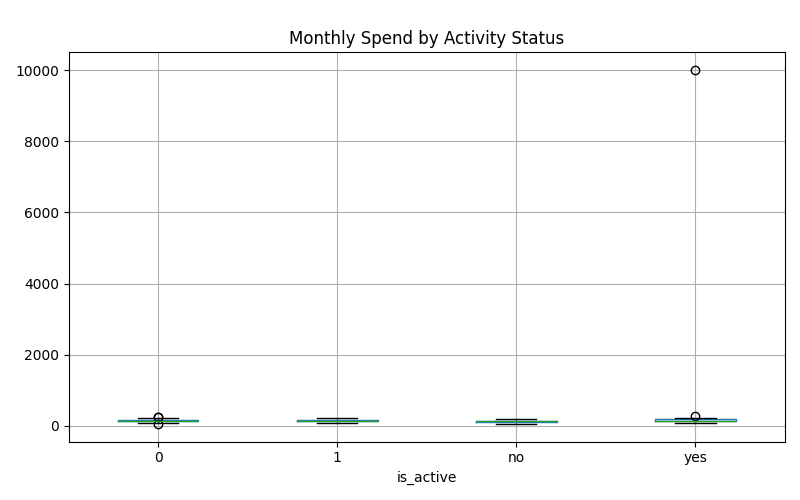
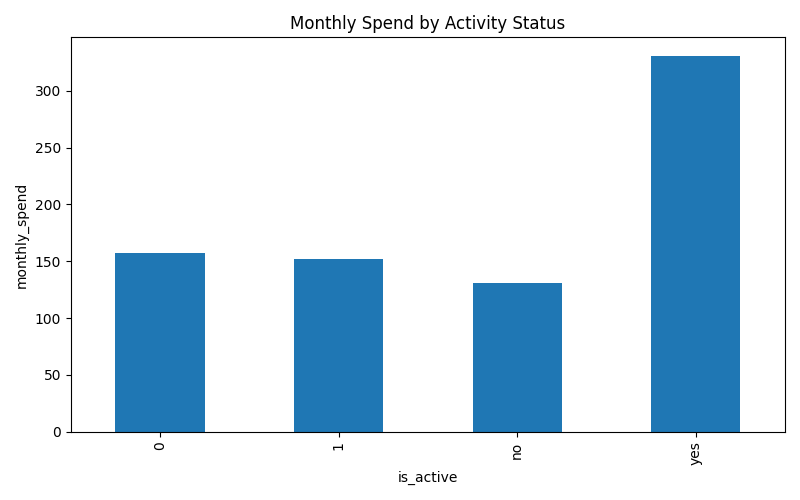
Fix Visualization Agent: always generate a chart per hypothesis regardless of significance

diff --git a/pipeline.py b/pipeline.py
@@ -11,7 +11,24 @@ from feature_engineering_agent import analyze_for_feature_engineering, propose_f
 from report_agent import generate_report
 
 
+def update_progress(dataset_id: str, step: str):
+    """
+    Updates the database with which agent is currently running,
+    so the frontend can display live progress.
+    """
+    from database import SessionLocal, Dataset
+    db = SessionLocal()
+    try:
+        dataset = db.query(Dataset).filter(Dataset.dataset_id == dataset_id).first()
+        if dataset:
+            dataset.current_step = step
+            db.commit()
+    finally:
+        db.close()
+
+
 class PipelineState(TypedDict):
+    dataset_id: str
     filepath: str
     df: Optional[pd.DataFrame]
     profiling_findings: Optional[dict]
@@ -25,6 +42,7 @@ class PipelineState(TypedDict):
 
 
 def profiling_node(state: PipelineState) -> dict:
+    update_progress(state["dataset_id"], "profiling")
     print("Running Profiling Agent...")
     df = pd.read_csv(state["filepath"])
     findings = analyze_dataset(state["filepath"])
@@ -32,12 +50,10 @@ def profiling_node(state: PipelineState) -> dict:
 
 
 def cleaning_node(state: PipelineState) -> dict:
+    update_progress(state["dataset_id"], "cleaning")
     print("Running Cleaning Agent...")
     actions = propose_cleaning_actions(state["profiling_findings"])
 
-    # PLACEHOLDER: auto-approve every proposed action for now.
-    # Once the frontend exists (Phase 5), this is where we pause and wait
-    # for real human approval/rejection of each action instead.
     df = state["df"]
     for action in actions:
         try:
@@ -49,18 +65,21 @@ def cleaning_node(state: PipelineState) -> dict:
 
 
 def hypothesis_node(state: PipelineState) -> dict:
+    update_progress(state["dataset_id"], "hypothesis")
     print("Running Hypothesis Agent...")
     hypotheses = generate_hypotheses(state["df"])
     return {"hypotheses": hypotheses}
 
 
 def statistical_testing_node(state: PipelineState) -> dict:
+    update_progress(state["dataset_id"], "statistical_testing")
     print("Running Statistical Testing Agent...")
     results = [run_statistical_test(state["df"], h) for h in state["hypotheses"]]
     return {"test_results": results}
 
 
 def visualization_node(state: PipelineState) -> dict:
+    update_progress(state["dataset_id"], "visualization")
     print("Running Visualization Agent...")
     df = state["df"]
     specs = decide_chart_types(state["test_results"], list(df.columns))
@@ -75,16 +94,15 @@ def visualization_node(state: PipelineState) -> dict:
 
 
 def feature_engineering_node(state: PipelineState) -> dict:
+    update_progress(state["dataset_id"], "feature_engineering")
     print("Running Feature Engineering Agent...")
     analysis = analyze_for_feature_engineering(state["df"])
     actions = propose_feature_engineering_actions(analysis)
-
-    # Same placeholder note as cleaning_node — auto-approved for now,
-    # will become a real human approval step once the frontend exists.
     return {"fe_actions": actions}
 
 
 def report_node(state: PipelineState) -> dict:
+    update_progress(state["dataset_id"], "report")
     print("Running Report Agent...")
     report = generate_report(
         state["profiling_findings"],
@@ -125,7 +143,7 @@ if __name__ == "__main__":
     pipeline = build_pipeline()
 
     print("Starting full pipeline run...\n")
-    final_state = pipeline.invoke({"filepath": "data/sample_messy_customers.csv"})
+    final_state = pipeline.invoke({"dataset_id": "test-run", "filepath": "data/sample_messy_customers.csv"})
 
     print("\n" + "=" * 60)
     print("PIPELINE COMPLETE")

diff --git a/database.py b/database.py
@@ -17,11 +17,12 @@ class Dataset(Base):
 
     dataset_id = Column(String, primary_key=True)
     filename = Column(String)
-    status = Column(String, default="uploaded")  # uploaded -> processing -> complete/failed
-    results_json = Column(Text, nullable=True)  # stores the pipeline results as JSON text
+    status = Column(String, default="uploaded")
+    current_step = Column(String, nullable=True)
+    results_json = Column(Text, nullable=True)
     created_at = Column(DateTime, default=lambda: datetime.now(timezone.utc))
     error_message = Column(Text, nullable=True)
-    owner_id = Column(String, nullable=True)  # links to User.id; nullable for now, for backward compatibility
+    owner_id = Column(String, nullable=True)
 
 
 class User(Base):
@@ -36,15 +37,10 @@ class User(Base):
     created_at = Column(DateTime, default=lambda: datetime.now(timezone.utc))
 
 
-# Creates the actual database file and tables, if they don't already exist
 Base.metadata.create_all(bind=engine)
 
 
 def get_db():
-    """
-    Provides a database session for a single request, and guarantees
-    it's properly closed afterward — even if an error occurs.
-    """
     db = SessionLocal()
     try:
         yield db

diff --git a/visualization_agent.py b/visualization_agent.py
@@ -23,7 +23,10 @@ ONLY a JSON array (no other text, no code fences) where each item has:
   matches from this list of actual dataset columns: {available_columns}
 - "title": a short, clear chart title
 
-Only include hypotheses where a chart would genuinely add value. Do NOT
+Generate a chart for EVERY hypothesis in the list below, regardless of
+whether the result was statistically significant — visualizing non-significant
+results is just as valuable as significant ones, since it helps confirm
+the absence of a pattern. Do NOT
 invent column names — only use names from the provided list exactly as written.
 
 Results:

diff --git a/main.py b/main.py
@@ -121,7 +121,7 @@ def run_pipeline_in_background(dataset_id: str, filepath: str):
         db.commit()
 
         pipeline = build_pipeline()
-        final_state = pipeline.invoke({"filepath": filepath})
+        final_state = pipeline.invoke({"dataset_id": dataset_id, "filepath": filepath})
 
         result_to_save = {
             "profiling_findings": final_state.get("profiling_findings"),
@@ -191,6 +191,7 @@ def get_status(
     return {
         "dataset_id": dataset_id,
         "status": dataset.status,
+        "current_step": dataset.current_step,
         "error_message": dataset.error_message,
     }
 
